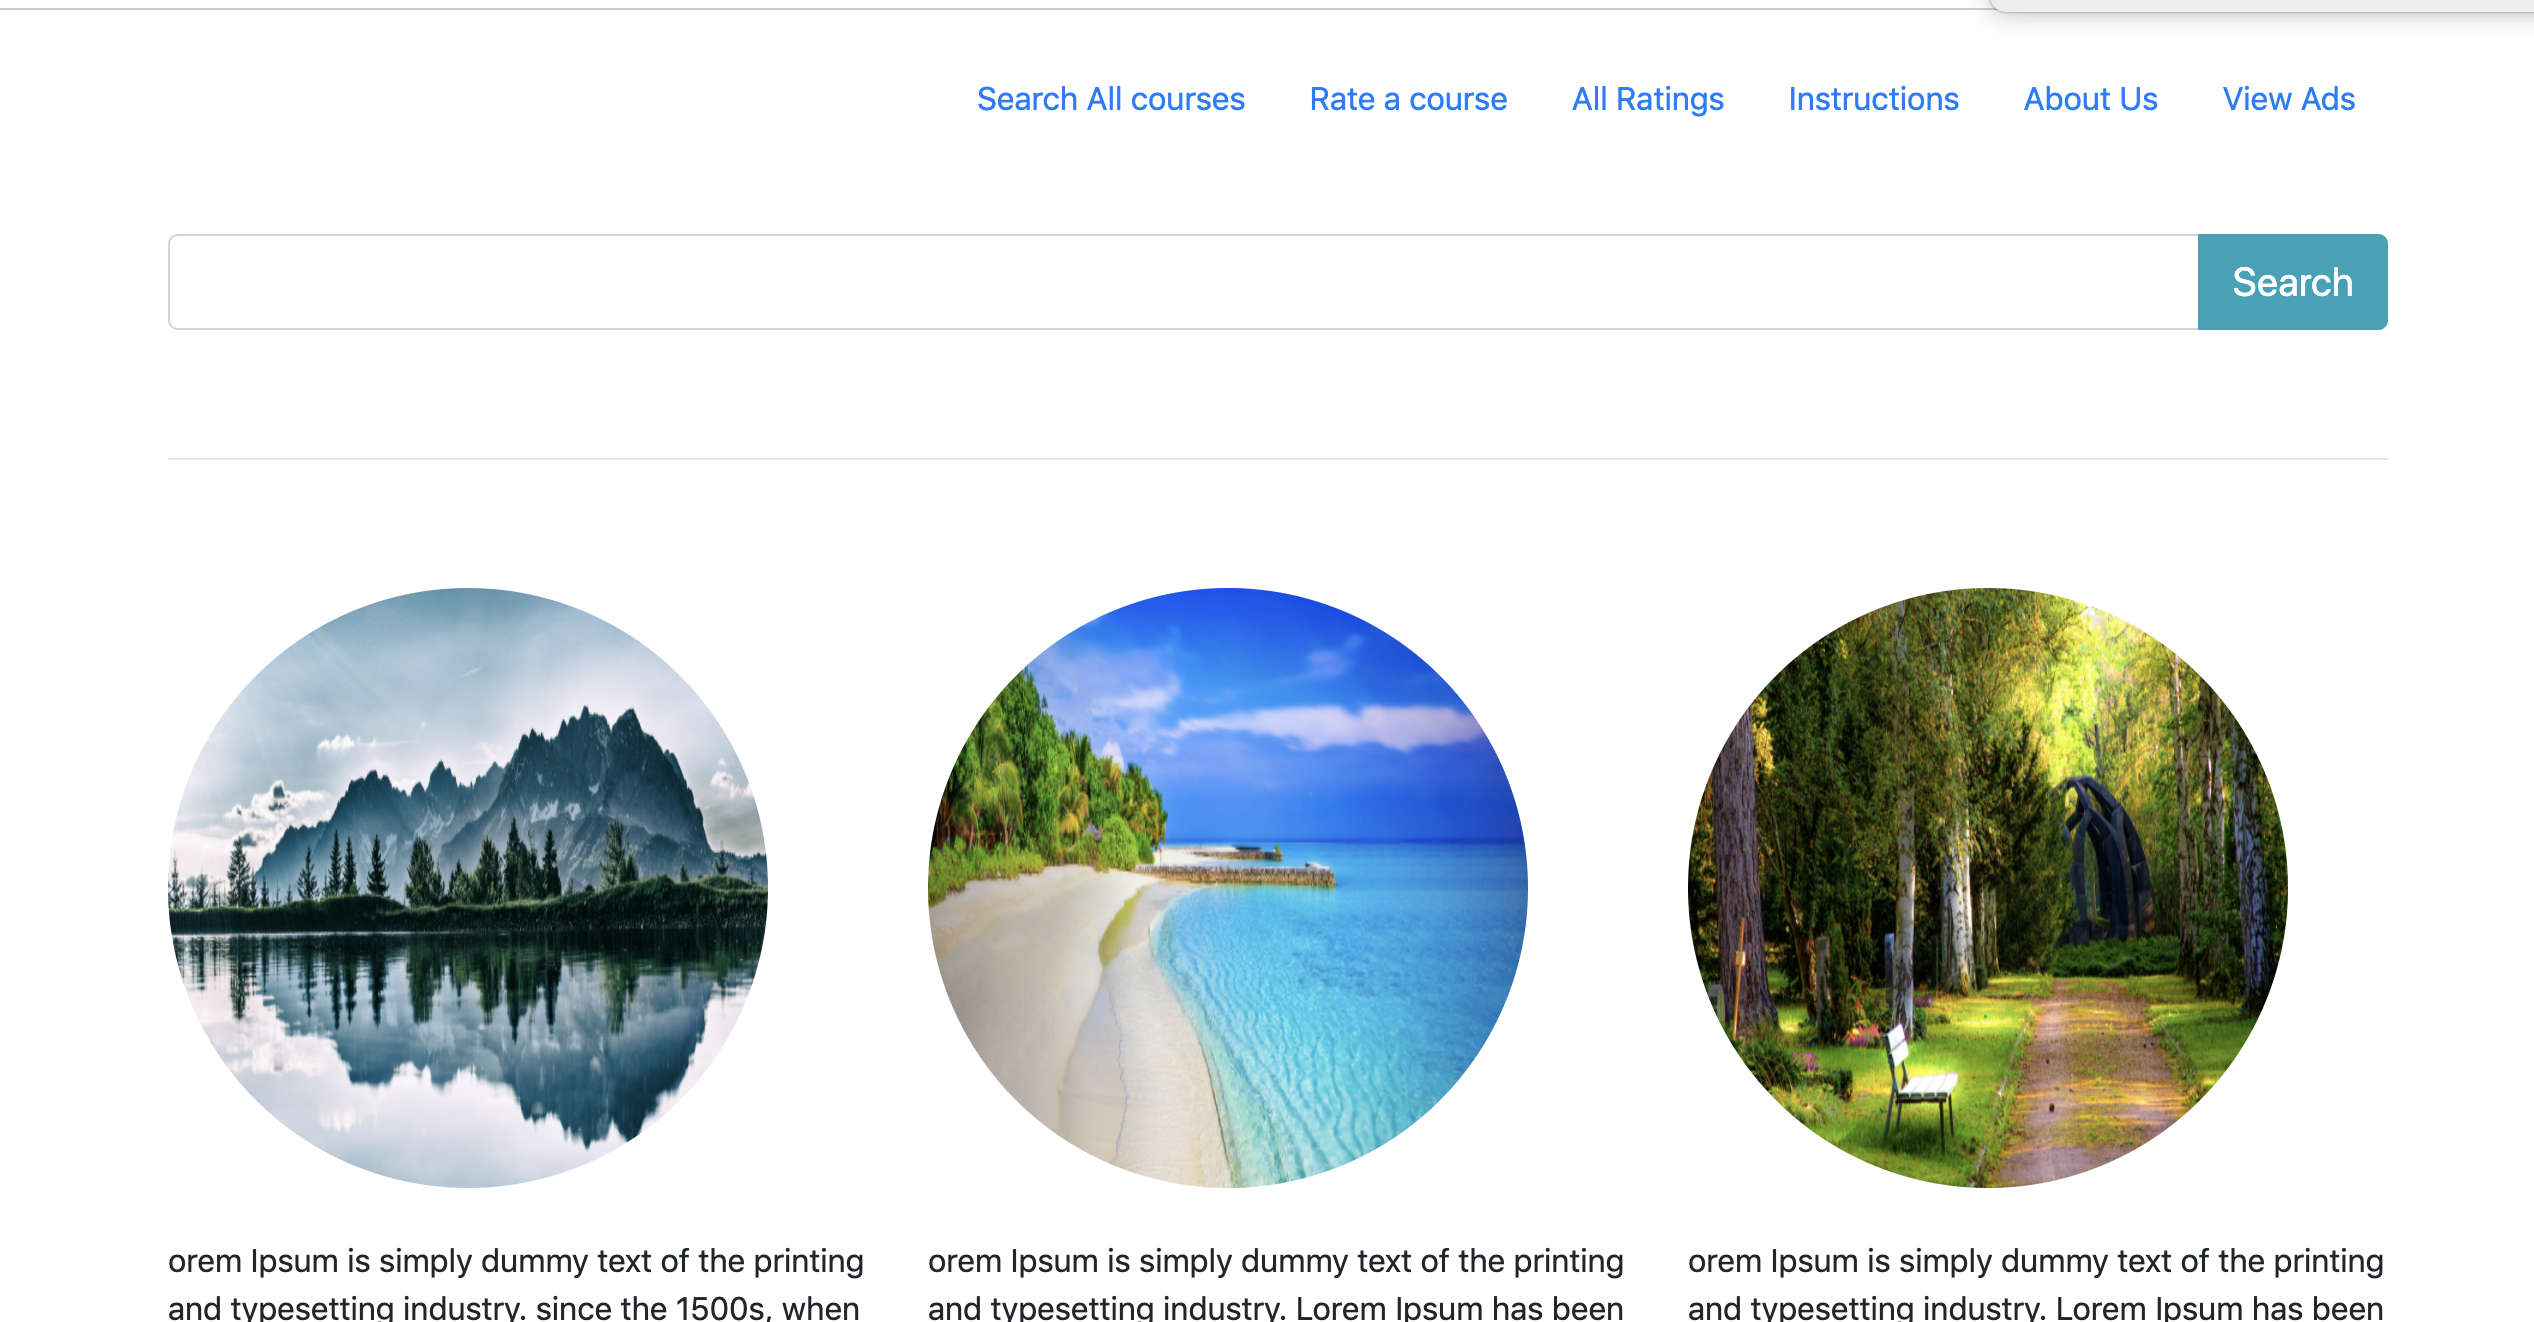
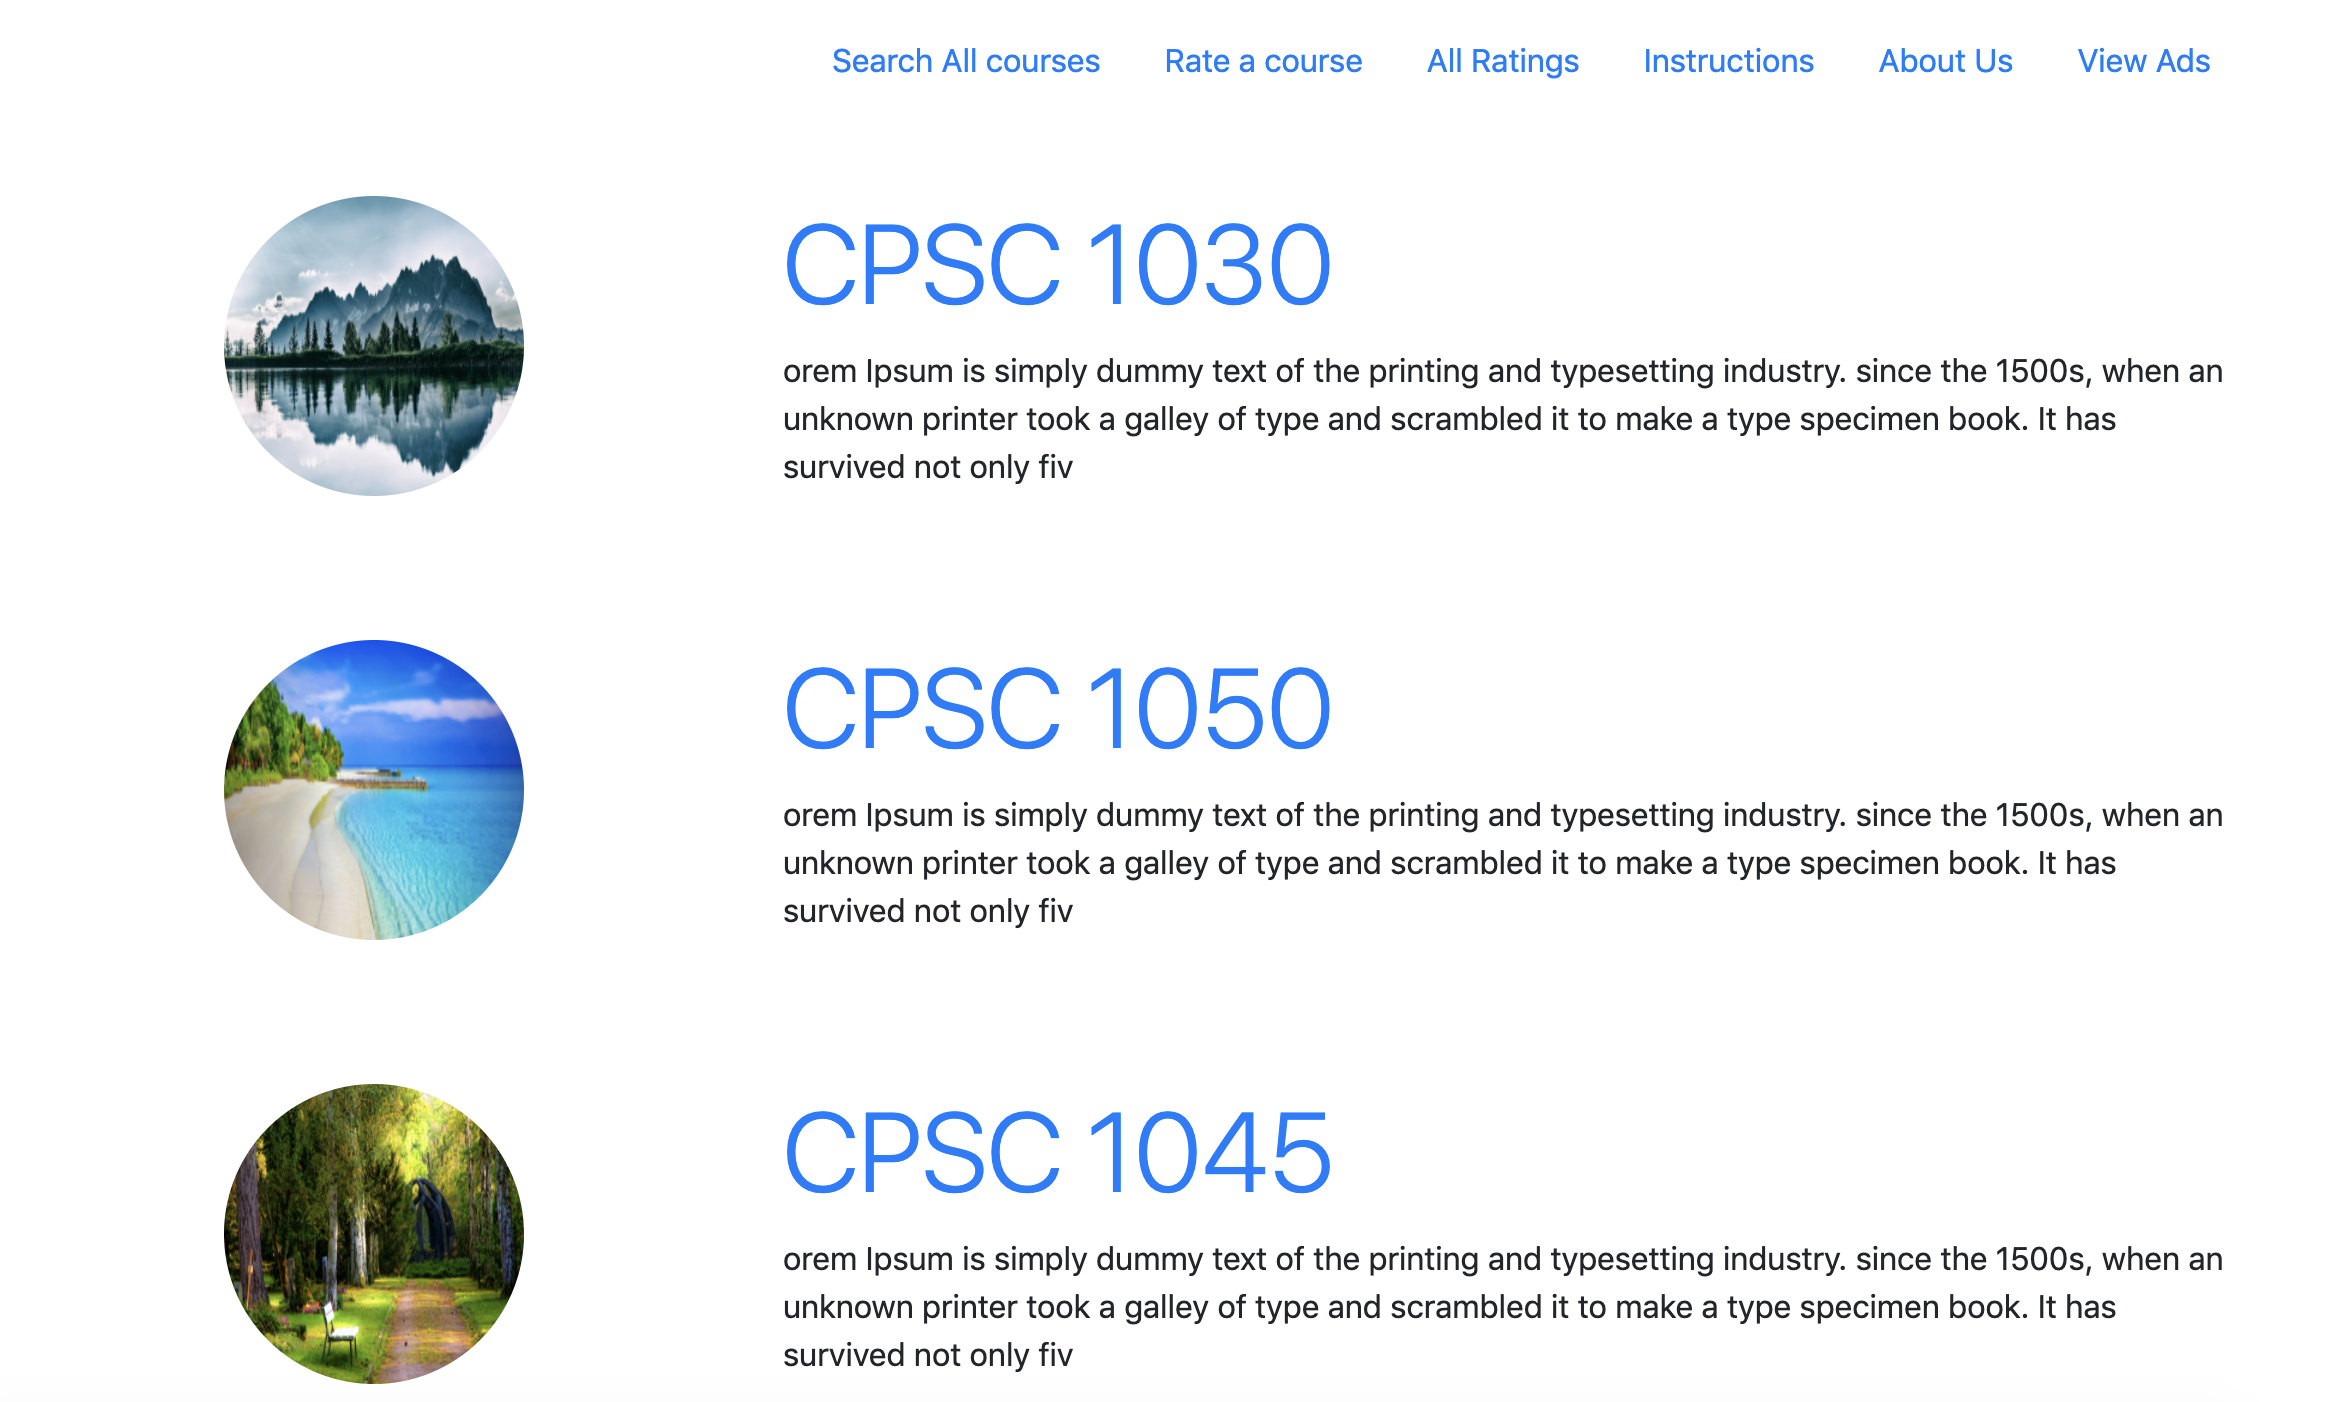
adds padding and border

diff --git a/index.html b/index.html
@@ -6735,6 +6735,19 @@ var $mdgriffith$elm_ui$Internal$Model$AlignY = function (a) {
 };
 var $mdgriffith$elm_ui$Internal$Model$CenterY = {$: 'CenterY'};
 var $mdgriffith$elm_ui$Element$centerY = $mdgriffith$elm_ui$Internal$Model$AlignY($mdgriffith$elm_ui$Internal$Model$CenterY);
+var $mdgriffith$elm_ui$Internal$Model$Rgba = F4(
+	function (a, b, c, d) {
+		return {$: 'Rgba', a: a, b: b, c: c, d: d};
+	});
+var $mdgriffith$elm_ui$Element$rgb255 = F3(
+	function (red, green, blue) {
+		return A4($mdgriffith$elm_ui$Internal$Model$Rgba, red / 255, green / 255, blue / 255, 1);
+	});
+var $author$project$Styles$colors = {
+	blue: A3($mdgriffith$elm_ui$Element$rgb255, 16, 33, 46),
+	gray: A3($mdgriffith$elm_ui$Element$rgb255, 96, 96, 96),
+	white: A3($mdgriffith$elm_ui$Element$rgb255, 224, 224, 224)
+};
 var $mdgriffith$elm_ui$Internal$Model$Unkeyed = function (a) {
 	return {$: 'Unkeyed', a: a};
 };
@@ -11986,7 +11999,7 @@ var $mdgriffith$elm_ui$Internal$Model$Colored = F3(
 	function (a, b, c) {
 		return {$: 'Colored', a: a, b: b, c: c};
 	});
-var $mdgriffith$elm_ui$Internal$Flag$fontColor = $mdgriffith$elm_ui$Internal$Flag$flag(14);
+var $mdgriffith$elm_ui$Internal$Flag$bgColor = $mdgriffith$elm_ui$Internal$Flag$flag(8);
 var $mdgriffith$elm_ui$Internal$Model$formatColorClass = function (_v0) {
 	var red = _v0.a;
 	var green = _v0.b;
@@ -11994,6 +12007,17 @@ var $mdgriffith$elm_ui$Internal$Model$formatColorClass = function (_v0) {
 	var alpha = _v0.d;
 	return $mdgriffith$elm_ui$Internal$Model$floatClass(red) + ('-' + ($mdgriffith$elm_ui$Internal$Model$floatClass(green) + ('-' + ($mdgriffith$elm_ui$Internal$Model$floatClass(blue) + ('-' + $mdgriffith$elm_ui$Internal$Model$floatClass(alpha))))));
 };
+var $mdgriffith$elm_ui$Element$Background$color = function (clr) {
+	return A2(
+		$mdgriffith$elm_ui$Internal$Model$StyleClass,
+		$mdgriffith$elm_ui$Internal$Flag$bgColor,
+		A3(
+			$mdgriffith$elm_ui$Internal$Model$Colored,
+			'bg-' + $mdgriffith$elm_ui$Internal$Model$formatColorClass(clr),
+			'background-color',
+			clr));
+};
+var $mdgriffith$elm_ui$Internal$Flag$fontColor = $mdgriffith$elm_ui$Internal$Flag$flag(14);
 var $mdgriffith$elm_ui$Element$Font$color = function (fontColor) {
 	return A2(
 		$mdgriffith$elm_ui$Internal$Model$StyleClass,
@@ -12004,27 +12028,14 @@ var $mdgriffith$elm_ui$Element$Font$color = function (fontColor) {
 			'color',
 			fontColor));
 };
-var $mdgriffith$elm_ui$Internal$Model$Rgba = F4(
-	function (a, b, c, d) {
-		return {$: 'Rgba', a: a, b: b, c: c, d: d};
+var $mdgriffith$elm_ui$Internal$Model$Max = F2(
+	function (a, b) {
+		return {$: 'Max', a: a, b: b};
 	});
-var $mdgriffith$elm_ui$Element$rgb255 = F3(
-	function (red, green, blue) {
-		return A4($mdgriffith$elm_ui$Internal$Model$Rgba, red / 255, green / 255, blue / 255, 1);
+var $mdgriffith$elm_ui$Element$maximum = F2(
+	function (i, l) {
+		return A2($mdgriffith$elm_ui$Internal$Model$Max, i, l);
 	});
-var $author$project$Styles$colors = {
-	blue: A3($mdgriffith$elm_ui$Element$rgb255, 16, 33, 46),
-	gray: A3($mdgriffith$elm_ui$Element$rgb255, 96, 96, 96),
-	white: A3($mdgriffith$elm_ui$Element$rgb255, 224, 224, 224)
-};
-var $mdgriffith$elm_ui$Internal$Model$Attr = function (a) {
-	return {$: 'Attr', a: a};
-};
-var $elm$virtual_dom$VirtualDom$style = _VirtualDom_style;
-var $mdgriffith$elm_ui$Element$Background$image = function (src) {
-	return $mdgriffith$elm_ui$Internal$Model$Attr(
-		A2($elm$virtual_dom$VirtualDom$style, 'background', 'url(\"' + (src + '\") center / cover no-repeat')));
-};
 var $mdgriffith$elm_ui$Internal$Model$PaddingStyle = F5(
 	function (a, b, c, d, e) {
 		return {$: 'PaddingStyle', a: a, b: b, c: c, d: d, e: e};
@@ -12044,6 +12055,9 @@ var $mdgriffith$elm_ui$Element$padding = function (x) {
 };
 var $mdgriffith$elm_ui$Internal$Model$AsRow = {$: 'AsRow'};
 var $mdgriffith$elm_ui$Internal$Model$asRow = $mdgriffith$elm_ui$Internal$Model$AsRow;
+var $mdgriffith$elm_ui$Internal$Model$Attr = function (a) {
+	return {$: 'Attr', a: a};
+};
 var $mdgriffith$elm_ui$Internal$Model$htmlClass = function (cls) {
 	return $mdgriffith$elm_ui$Internal$Model$Attr(
 		$elm$html$Html$Attributes$class(cls));
@@ -12072,6 +12086,30 @@ var $mdgriffith$elm_ui$Internal$Model$Class = F2(
 	});
 var $mdgriffith$elm_ui$Internal$Flag$fontWeight = $mdgriffith$elm_ui$Internal$Flag$flag(13);
 var $mdgriffith$elm_ui$Element$Font$semiBold = A2($mdgriffith$elm_ui$Internal$Model$Class, $mdgriffith$elm_ui$Internal$Flag$fontWeight, $mdgriffith$elm_ui$Internal$Style$classes.textSemiBold);
+var $mdgriffith$elm_ui$Internal$Model$boxShadowName = function (shadow) {
+	return $elm$core$String$concat(
+		_List_fromArray(
+			[
+				shadow.inset ? 'box-inset' : 'box-',
+				$elm$core$String$fromFloat(shadow.offset.a) + 'px',
+				$elm$core$String$fromFloat(shadow.offset.b) + 'px',
+				$elm$core$String$fromFloat(shadow.blur) + 'px',
+				$elm$core$String$fromFloat(shadow.size) + 'px',
+				$mdgriffith$elm_ui$Internal$Model$formatColorClass(shadow.color)
+			]));
+};
+var $mdgriffith$elm_ui$Internal$Flag$shadows = $mdgriffith$elm_ui$Internal$Flag$flag(19);
+var $mdgriffith$elm_ui$Element$Border$shadow = function (almostShade) {
+	var shade = {blur: almostShade.blur, color: almostShade.color, inset: false, offset: almostShade.offset, size: almostShade.size};
+	return A2(
+		$mdgriffith$elm_ui$Internal$Model$StyleClass,
+		$mdgriffith$elm_ui$Internal$Flag$shadows,
+		A3(
+			$mdgriffith$elm_ui$Internal$Model$Single,
+			$mdgriffith$elm_ui$Internal$Model$boxShadowName(shade),
+			'box-shadow',
+			$mdgriffith$elm_ui$Internal$Model$formatBoxShadow(shade)));
+};
 var $mdgriffith$elm_ui$Internal$Model$FontSize = function (a) {
 	return {$: 'FontSize', a: a};
 };
@@ -12098,8 +12136,16 @@ var $author$project$View$header = A2(
 				$mdgriffith$elm_ui$Element$centerX,
 				$mdgriffith$elm_ui$Element$padding(60),
 				$mdgriffith$elm_ui$Element$Font$color($author$project$Styles$colors.white),
-				$mdgriffith$elm_ui$Element$Background$image('images/test.jpeg'),
-				$mdgriffith$elm_ui$Element$width($mdgriffith$elm_ui$Element$fill)
+				$mdgriffith$elm_ui$Element$width(
+				A2($mdgriffith$elm_ui$Element$maximum, 1100, $mdgriffith$elm_ui$Element$fill)),
+				$mdgriffith$elm_ui$Element$Background$color($author$project$Styles$colors.blue),
+				$mdgriffith$elm_ui$Element$Border$shadow(
+				{
+					blur: 3,
+					color: $author$project$Styles$colors.gray,
+					offset: _Utils_Tuple2(1, 1),
+					size: 3
+				})
 			]),
 		$author$project$Styles$fontStyles.standard),
 	_List_fromArray(
@@ -12113,6 +12159,11 @@ var $author$project$View$header = A2(
 					$mdgriffith$elm_ui$Element$text('Taqdeer Grewal')
 				]))
 		]));
+var $elm$virtual_dom$VirtualDom$style = _VirtualDom_style;
+var $mdgriffith$elm_ui$Element$Background$image = function (src) {
+	return $mdgriffith$elm_ui$Internal$Model$Attr(
+		A2($elm$virtual_dom$VirtualDom$style, 'background', 'url(\"' + (src + '\") center / cover no-repeat')));
+};
 var $mdgriffith$elm_ui$Internal$Model$InFront = {$: 'InFront'};
 var $mdgriffith$elm_ui$Internal$Model$Nearby = F2(
 	function (a, b) {
@@ -12268,7 +12319,6 @@ var $mdgriffith$elm_ui$Internal$Model$renderRoot = F3(
 var $mdgriffith$elm_ui$Internal$Model$Typeface = function (a) {
 	return {$: 'Typeface', a: a};
 };
-var $mdgriffith$elm_ui$Internal$Flag$bgColor = $mdgriffith$elm_ui$Internal$Flag$flag(8);
 var $mdgriffith$elm_ui$Internal$Model$rootStyle = function () {
 	var families = _List_fromArray(
 		[
@@ -12329,24 +12379,6 @@ var $mdgriffith$elm_ui$Element$layoutWith = F3(
 	});
 var $mdgriffith$elm_ui$Element$layout = $mdgriffith$elm_ui$Element$layoutWith(
 	{options: _List_Nil});
-var $mdgriffith$elm_ui$Internal$Model$Max = F2(
-	function (a, b) {
-		return {$: 'Max', a: a, b: b};
-	});
-var $mdgriffith$elm_ui$Element$maximum = F2(
-	function (i, l) {
-		return A2($mdgriffith$elm_ui$Internal$Model$Max, i, l);
-	});
-var $mdgriffith$elm_ui$Element$Background$color = function (clr) {
-	return A2(
-		$mdgriffith$elm_ui$Internal$Model$StyleClass,
-		$mdgriffith$elm_ui$Internal$Flag$bgColor,
-		A3(
-			$mdgriffith$elm_ui$Internal$Model$Colored,
-			'bg-' + $mdgriffith$elm_ui$Internal$Model$formatColorClass(clr),
-			'background-color',
-			clr));
-};
 var $mdgriffith$elm_ui$Internal$Model$AsColumn = {$: 'AsColumn'};
 var $mdgriffith$elm_ui$Internal$Model$asColumn = $mdgriffith$elm_ui$Internal$Model$AsColumn;
 var $mdgriffith$elm_ui$Element$column = F2(
@@ -12530,30 +12562,6 @@ var $mdgriffith$elm_ui$Internal$Model$Px = function (a) {
 	return {$: 'Px', a: a};
 };
 var $mdgriffith$elm_ui$Element$px = $mdgriffith$elm_ui$Internal$Model$Px;
-var $mdgriffith$elm_ui$Internal$Model$boxShadowName = function (shadow) {
-	return $elm$core$String$concat(
-		_List_fromArray(
-			[
-				shadow.inset ? 'box-inset' : 'box-',
-				$elm$core$String$fromFloat(shadow.offset.a) + 'px',
-				$elm$core$String$fromFloat(shadow.offset.b) + 'px',
-				$elm$core$String$fromFloat(shadow.blur) + 'px',
-				$elm$core$String$fromFloat(shadow.size) + 'px',
-				$mdgriffith$elm_ui$Internal$Model$formatColorClass(shadow.color)
-			]));
-};
-var $mdgriffith$elm_ui$Internal$Flag$shadows = $mdgriffith$elm_ui$Internal$Flag$flag(19);
-var $mdgriffith$elm_ui$Element$Border$shadow = function (almostShade) {
-	var shade = {blur: almostShade.blur, color: almostShade.color, inset: false, offset: almostShade.offset, size: almostShade.size};
-	return A2(
-		$mdgriffith$elm_ui$Internal$Model$StyleClass,
-		$mdgriffith$elm_ui$Internal$Flag$shadows,
-		A3(
-			$mdgriffith$elm_ui$Internal$Model$Single,
-			$mdgriffith$elm_ui$Internal$Model$boxShadowName(shade),
-			'box-shadow',
-			$mdgriffith$elm_ui$Internal$Model$formatBoxShadow(shade)));
-};
 var $author$project$View$homePageView = A2(
 	$mdgriffith$elm_ui$Element$column,
 	_List_fromArray(
@@ -12562,7 +12570,8 @@ var $author$project$View$homePageView = A2(
 			$mdgriffith$elm_ui$Element$width($mdgriffith$elm_ui$Element$fill),
 			$mdgriffith$elm_ui$Element$spacing(40),
 			$mdgriffith$elm_ui$Element$Font$color($author$project$Styles$colors.white),
-			$mdgriffith$elm_ui$Element$inFront($author$project$View$header)
+			$mdgriffith$elm_ui$Element$inFront($author$project$View$header),
+			$mdgriffith$elm_ui$Element$Background$color($author$project$Styles$colors.blue)
 		]),
 	_List_fromArray(
 		[
@@ -12575,7 +12584,8 @@ var $author$project$View$homePageView = A2(
 					$mdgriffith$elm_ui$Element$centerX,
 					$mdgriffith$elm_ui$Element$height(
 					A2($mdgriffith$elm_ui$Element$minimum, 300, $mdgriffith$elm_ui$Element$fill)),
-					$mdgriffith$elm_ui$Element$centerY
+					$mdgriffith$elm_ui$Element$centerY,
+					A2($mdgriffith$elm_ui$Element$paddingXY, 10, 0)
 				]),
 			_List_fromArray(
 				[
@@ -12796,7 +12806,8 @@ var $author$project$View$homePageView = A2(
 					$mdgriffith$elm_ui$Element$centerX,
 					$mdgriffith$elm_ui$Element$height(
 					A2($mdgriffith$elm_ui$Element$minimum, 300, $mdgriffith$elm_ui$Element$fill)),
-					$mdgriffith$elm_ui$Element$centerY
+					$mdgriffith$elm_ui$Element$centerY,
+					A2($mdgriffith$elm_ui$Element$paddingXY, 10, 0)
 				]),
 			_List_fromArray(
 				[
@@ -12882,7 +12893,8 @@ var $author$project$View$homePageView = A2(
 					$mdgriffith$elm_ui$Element$centerX,
 					$mdgriffith$elm_ui$Element$height(
 					A2($mdgriffith$elm_ui$Element$minimum, 500, $mdgriffith$elm_ui$Element$fill)),
-					$mdgriffith$elm_ui$Element$centerY
+					$mdgriffith$elm_ui$Element$centerY,
+					A2($mdgriffith$elm_ui$Element$paddingXY, 10, 0)
 				]),
 			_List_fromArray(
 				[
@@ -12933,7 +12945,7 @@ var $author$project$View$homePageView = A2(
 										[
 											$mdgriffith$elm_ui$Element$width($mdgriffith$elm_ui$Element$fill),
 											$mdgriffith$elm_ui$Element$height(
-											A2($mdgriffith$elm_ui$Element$maximum, 160, $mdgriffith$elm_ui$Element$fill))
+											A2($mdgriffith$elm_ui$Element$maximum, 200, $mdgriffith$elm_ui$Element$fill))
 										]),
 									{description: 'score', src: '/images/score.jpeg'}),
 									A2(
@@ -12975,7 +12987,7 @@ var $author$project$View$homePageView = A2(
 										[
 											$mdgriffith$elm_ui$Element$width($mdgriffith$elm_ui$Element$fill),
 											$mdgriffith$elm_ui$Element$height(
-											A2($mdgriffith$elm_ui$Element$maximum, 160, $mdgriffith$elm_ui$Element$fill))
+											A2($mdgriffith$elm_ui$Element$maximum, 200, $mdgriffith$elm_ui$Element$fill))
 										]),
 									{description: 'farmersMarket', src: '/images/farmersMarket.jpeg'}),
 									A2(
@@ -13017,7 +13029,7 @@ var $author$project$View$homePageView = A2(
 										[
 											$mdgriffith$elm_ui$Element$width($mdgriffith$elm_ui$Element$fill),
 											$mdgriffith$elm_ui$Element$height(
-											A2($mdgriffith$elm_ui$Element$maximum, 160, $mdgriffith$elm_ui$Element$fill))
+											A2($mdgriffith$elm_ui$Element$maximum, 200, $mdgriffith$elm_ui$Element$fill))
 										]),
 									{description: 'rateMyCourse', src: '/images/rateMyCourse.jpeg'}),
 									A2(
@@ -13545,11 +13557,18 @@ var $author$project$View$view = function (model) {
 								$mdgriffith$elm_ui$Element$height($mdgriffith$elm_ui$Element$fill),
 								$mdgriffith$elm_ui$Element$centerY,
 								$mdgriffith$elm_ui$Element$width(
-								A2($mdgriffith$elm_ui$Element$maximum, 1000, $mdgriffith$elm_ui$Element$fill)),
+								A2($mdgriffith$elm_ui$Element$maximum, 1100, $mdgriffith$elm_ui$Element$fill)),
 								$mdgriffith$elm_ui$Element$scrollbarY,
 								$mdgriffith$elm_ui$Element$height(
 								A2($mdgriffith$elm_ui$Element$maximum, 1000, $mdgriffith$elm_ui$Element$fill)),
-								$mdgriffith$elm_ui$Element$inFront($author$project$View$header)
+								$mdgriffith$elm_ui$Element$inFront($author$project$View$header),
+								$mdgriffith$elm_ui$Element$Border$shadow(
+								{
+									blur: 3,
+									color: $author$project$Styles$colors.gray,
+									offset: _Utils_Tuple2(1, 1),
+									size: 3
+								})
 							]),
 						$author$project$Styles$fontStyles.standard),
 					$author$project$View$renderRoute(model)))
